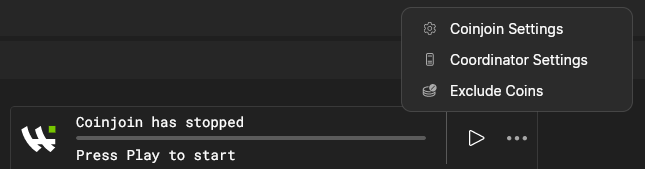
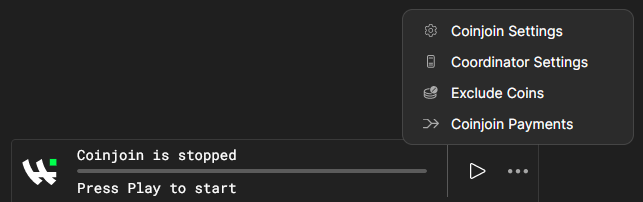
Merge pull request #2053 from MarnixCroes/payincoinjoin
coinjoin: coinjoin payment

Pull request: coinjoin: coinjoin payment
closes https://github.com/WalletWasabi/WasabiDoc/issues/2037

<img width="628" height="799" alt="image" src="https://github.com/user-attachments/assets/29d40e66-5fc9-4158-a2cd-ff7982b1452d" />

diff --git a/docs/using-wasabi/CoinJoin.md b/docs/using-wasabi/CoinJoin.md
@@ -243,6 +243,30 @@ It is possible to make your own custom strategy by changing the settings manuall
 
 ![Coinjoin Strategy Settings](/CoinjoinStrategySettings.png "Coinjoin Strategy Settings")
 
+## Coinjoin payment
+
+Since Wasabi version [2.8.0](https://github.com/WalletWasabi/WalletWasabi/releases/tag/v2.8.0), it is possible to schedule a payment in a coinjoin in the GUI.
+
+This means that the payment will be made in a coinjoin, instead of having to coinjoin first and then make a single user payment.
+
+To schedule a payment, click the music box menu items and follow the steps, similar to the normal send workflow.
+
+![Music Box Menu Items](/MusicBoxMenuItems.png "Music Box Menu Items")
+
+![Coinjoin Payments Dialog](/CoinjoinPaymentsDialog.png "Coinjoin Payments dialog")
+
+Payments in coinjoin can theoretically be made to any ScriptPubKey. 
+However, the coordinator may only accept certain types of outputs.
+It is not possible to use a Silent Payment address as the destination for a _payincoinjoin_, as you need to know the private keys of all the inputs.
+
+The default maximum is 4 payments per client per coinjoin.
+
+The coinjoin payment feature only registers a payment, so if coinjoin is not running or the amount is lower than the wallet balance, the payment is queued.
+Currently the coinjoin coin selector does not take into account that a payment is registerd.
+Therefore, it is possible that the payment will not be executed due to insufficient and/or non-optimal coins being selected, even though there are sufficient funds available.
+
+> Queued coinjoin payments are removed when Wasabi restarts, or can be cancelled manually.
+
 ## Wasabi Coinjoin examples
 
 Here's a list of Wasabi coinjoin examples and how they appear on a block explorer:

diff --git a/docs/using-wasabi/RPC.md b/docs/using-wasabi/RPC.md
@@ -751,18 +751,10 @@ The _result_ is the paymentId.
 
 A _payincoinjoin_ is written to the logs and its status can be seen by using the _listpaymentsincoinjoin_ method.
 
-Payments in coinjoin can theoretically be made to any ScriptPubKey. 
-However, the coordinator may only accept certain types of outputs.
-It is not possible to use a Silent Payment address as the destination for a _payincoinjoin_, as you need to know the private keys of all the inputs.
-
-The default maximum is 4 payments per client per coinjoin.
-
-_payincoinjoin_ only registers a payment, so if coinjoin is not running or the amount is lower than the wallet balance, the payment is queued.
-Currently the coinjoin coin selector does not take into account that a payment is registerd.
-Therefore, it is possible that the payment will not be executed due to insufficient and/or non-optimal coins being selected, even though there are sufficient funds available.
-
 Pending payments can be removed by using the _cancelpaymentincoinjoin_ method.
 Pending payments are also removed if the Wasabi client restarts.
+
+Read more [here](/using-wasabi/CoinJoin.html#coinjoin-payment).
 
 ### listpaymentsincoinjoin
 